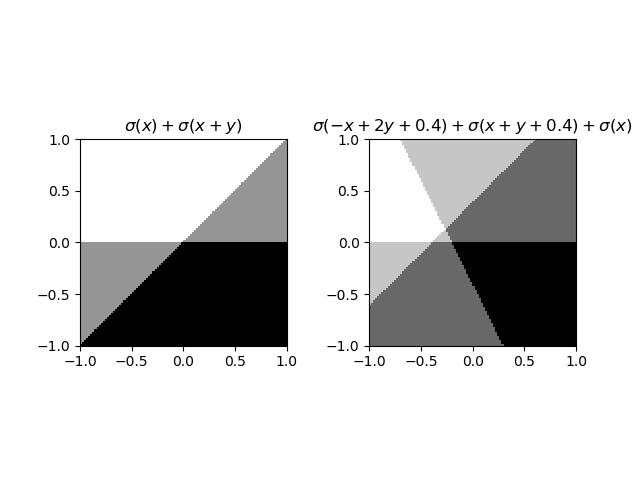
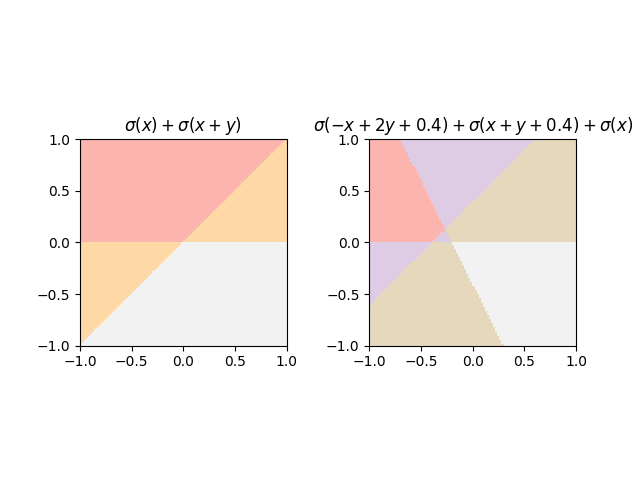
start convolution

Changed region(s): [[0.4688, 0.25, 1.0, 0.7188], [0.125, 0.25, 0.4688, 0.7188]]

diff --git a/convolution/convolution.py b/convolution/convolution.py
@@ -1,0 +1,101 @@
+from skimage import data
+import matplotlib.pyplot as plt
+import numpy as np
+from scipy.signal import convolve2d
+
+#############
+# Figure 1
+#############
+fig, axes = plt.subplots(ncols=1, nrows=1)
+time_series = np.sin(np.linspace(0, 6*np.pi, 1000)) + 0.5*np.random.randn(1000)
+axes.plot(time_series, 'k')
+plt.savefig('img/fig1')
+
+#############
+# Figure 2
+#############
+axes.plot(np.convolve(time_series, 1/3*np.ones(3), mode='same'), 'r')
+axes.plot(np.convolve(time_series, 1/9*np.ones(9), mode='same'), 'g')
+axes.plot(np.convolve(time_series, 1/27*np.ones(27), mode='same'), 'b')
+axes.plot(np.convolve(time_series, 1/81*np.ones(81), mode='same'), 'y')
+plt.savefig('img/fig2')
+
+#############
+# Figure 3
+#############
+cat_image = data.chelsea()
+plt.imshow(cat_image)
+plt.savefig('img/fig3')
+
+#############
+# Figure 4
+#############
+cat_image = data.chelsea()
+bw_cat_image = np.mean(cat_image, axis=2)
+plt.imshow(bw_cat_image, cmap='gray')
+plt.savefig('img/fig4')
+
+#############
+# Figure 5
+#############
+# Box blur
+filter = (1/9)*np.ones((3, 3))
+plt.imshow(convolve2d(bw_cat_image, filter, mode='same'), cmap='gray')
+plt.savefig('img/fig5')
+
+#############
+# Figure 6
+#############
+# Box blur
+filter = (1/49)*np.ones((7, 7))
+plt.imshow(convolve2d(bw_cat_image, filter, mode='same'), cmap='gray')
+plt.savefig('img/fig6')
+
+#############
+# Figure 7
+#############
+# Gaussian blur
+def gkern(l=5, sig=1.):
+    """\
+    creates gaussian kernel with side length l and a sigma of sig
+    """
+
+    ax = np.linspace(-(l - 1) / 2., (l - 1) / 2., l)
+    xx, yy = np.meshgrid(ax, ax)
+
+    kernel = np.exp(-0.5 * (np.square(xx) + np.square(yy)) / np.square(sig))
+
+    return kernel / np.sum(kernel)
+
+
+filter = gkern(l=7, sig=1)
+#print(filter)
+plt.imshow(convolve2d(bw_cat_image, filter, mode='same'), cmap='gray')
+plt.savefig('img/fig7')
+
+#############
+# Figure 8
+#############
+# Horizontal lines
+filter = -1*np.ones((3, 3))
+filter[1,:] = 2*np.ones((1, 3))
+plt.imshow(convolve2d(bw_cat_image, filter, mode='same'), cmap='gray')
+plt.savefig('img/fig8')
+
+#############
+# Figure 9
+#############
+# Vertical lines
+filter = -1*np.ones((3, 3))
+filter[:,1] = 2*np.ones((1, 3))
+plt.imshow(convolve2d(bw_cat_image, filter, mode='same'), cmap='gray')
+plt.savefig('img/fig9')
+
+#############
+# Figure 10
+#############
+# All edges lines
+filter = -1*np.ones((3, 3))
+filter[1,1] = 8
+plt.imshow(convolve2d(bw_cat_image, filter, mode='same'), cmap='gray')
+plt.savefig('img/fig10')

diff --git a/neural_network/neural_network.py b/neural_network/neural_network.py
@@ -85,13 +85,13 @@ for i, x in enumerate(lx):
             D3[i, j] = 1
         if step(-x + 2*y+ 0.4):
             D4[i, j] = 1
-ax1.imshow(D1, extent = [-1, 1, -1, 1], cmap=plt.get_cmap('Greys'), aspect = 1)
+ax1.imshow(D1, extent = [-1, 1, -1, 1], cmap=plt.get_cmap('Pastel1'), aspect = 1)
 ax1.title.set_text('$\sigma(x + 0.4)$')
-ax2.imshow(D2, extent = [-1, 1, -1, 1], cmap=plt.get_cmap('Greys'), aspect = 1)
+ax2.imshow(D2, extent = [-1, 1, -1, 1], cmap=plt.get_cmap('Pastel1'), aspect = 1)
 ax2.title.set_text('$\sigma(x + y + 0.4)$')
-ax3.imshow(D3, extent = [-1, 1, -1, 1], cmap=plt.get_cmap('Greys'), aspect = 1)
+ax3.imshow(D3, extent = [-1, 1, -1, 1], cmap=plt.get_cmap('Pastel1'), aspect = 1)
 ax3.title.set_text('$\sigma(2x - y + 0.4)$')
-ax4.imshow(D4, extent = [-1, 1, -1, 1], cmap=plt.get_cmap('Greys'), aspect = 1)
+ax4.imshow(D4, extent = [-1, 1, -1, 1], cmap=plt.get_cmap('Pastel1'), aspect = 1)
 ax4.title.set_text('$\sigma(-x + 2y + 0.4)$')
 plt.savefig('img/fig5')
 
@@ -118,9 +118,9 @@ for i, x in enumerate(lx):
         if step(x):
             D2[i, j] += 1
 
-ax1.imshow(D1, extent = [-1, 1, -1, 1], cmap=plt.get_cmap('Greys'), aspect = 1)
+ax1.imshow(D1, extent = [-1, 1, -1, 1], cmap=plt.get_cmap('Pastel1'), aspect = 1)
 ax1.title.set_text('$\sigma(x) + \sigma(x+y)$')
-ax2.imshow(D2, extent = [-1, 1, -1, 1], cmap=plt.get_cmap('Greys'), aspect = 1)
+ax2.imshow(D2, extent = [-1, 1, -1, 1], cmap=plt.get_cmap('Pastel1'), aspect = 1)
 ax2.title.set_text('$\sigma(-x + 2y + 0.4) + \sigma(x + y + 0.4) + \sigma(x)$')
 plt.savefig('img/fig6')
 
@@ -144,7 +144,7 @@ for i, x in enumerate(lx):
             D1[i, j] += 1
         if step(-y + 0.5):
             D1[i, j] += 1
-axes.imshow(D1, extent = [-1, 1, -1, 1], cmap=plt.get_cmap('Greys'), aspect = 1)
+axes.imshow(D1, extent = [-1, 1, -1, 1], cmap=plt.get_cmap('Pastel1'), aspect = 1)
 plt.savefig('img/fig7')
 
 #############
@@ -175,7 +175,7 @@ for i, x in enumerate(lx):
             D1[i, j] += 1
         if step(x - y + 0.71):
             D1[i, j] += 1
-axes.imshow(D1, extent = [-1, 1, -1, 1], cmap=plt.get_cmap('Greys'), aspect = 1)
+axes.imshow(D1, extent = [-1, 1, -1, 1], cmap=plt.get_cmap('Pastel1'), aspect = 1)
 plt.savefig('img/fig8')
 
 #############

diff --git a/kNN/kNN_classifier.py b/kNN/kNN_classifier.py
@@ -56,7 +56,7 @@ for i, x in enumerate(np.linspace(0, 1, 100)):
                 min_dist = d
                 allocated_class = label[k]
         # Plot
-        if allocated_class == 1:
+        if allocated_class == 0:
             D[j, i] = 1
 
 for i, val in enumerate(label):
@@ -100,7 +100,7 @@ for i, x in enumerate(np.linspace(0, 1, 100)):
 
         # Plot
         list_mode = stats.mode(allocated_class.tolist())
-        if list_mode[0] == [1]:
+        if list_mode[0] == [0]:
             D[j, i] = 1
 
 for i, val in enumerate(label):
@@ -137,7 +137,7 @@ for i, x in enumerate(np.linspace(0, 1, 100)):
 
         # Plot
         list_mode = stats.mode(allocated_class.tolist())
-        if list_mode[0] == [1]:
+        if list_mode[0] == [0]:
             D[j, i] = 1
 
 for i, val in enumerate(label):
@@ -187,5 +187,5 @@ plt.savefig('img/fig10')
 #############
 # Figure 11
 #############
-axes.plot([0, 0.2, 0.2, 0, 0], [0.7, 0.7, 1, 1, 0.7], 'g')
+axes.plot([0, 0.3, 0.3, 0, 0], [0.75, 0.75, 1, 1, 0.75], 'g')
 plt.savefig('img/fig11')
